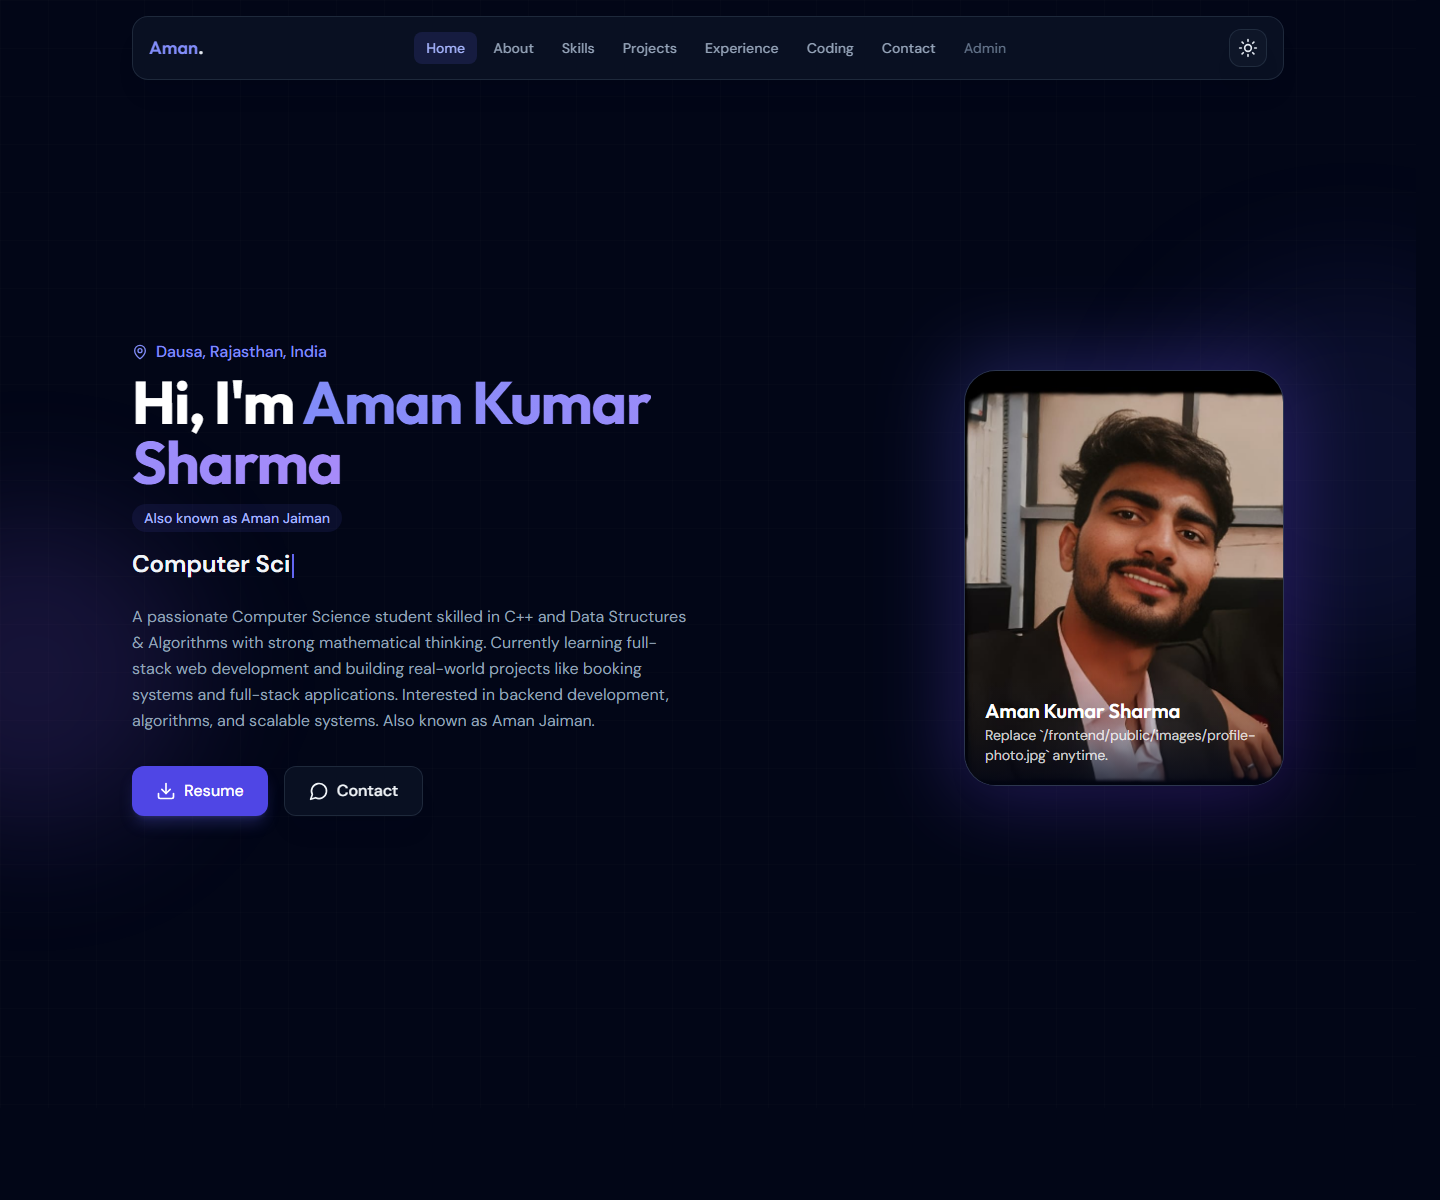
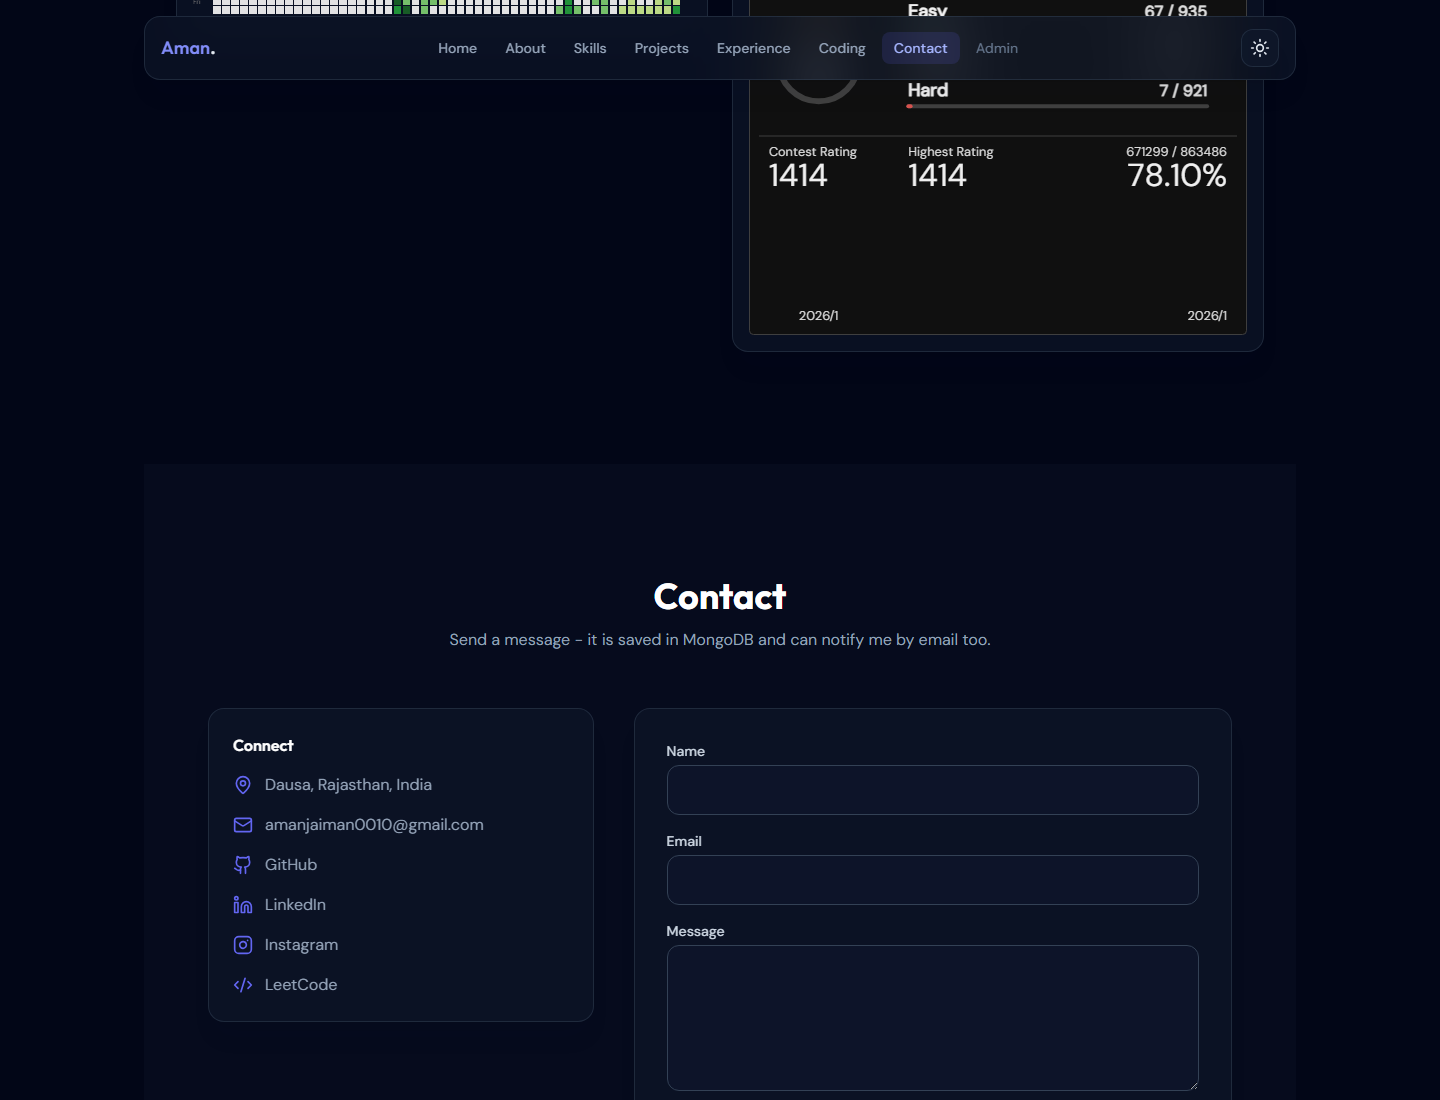
Update profile photo and README screenshots

diff --git a/frontend/src/components/HeroSection.jsx b/frontend/src/components/HeroSection.jsx
@@ -77,7 +77,7 @@ export function HeroSection() {
               />
               <div className="absolute inset-x-0 bottom-0 bg-gradient-to-t from-slate-950/75 via-slate-950/20 to-transparent p-5">
                 <p className="text-white font-display text-xl font-semibold">{profile.name}</p>
-                <p className="text-white/80 text-sm">Replace `/frontend/public/images/profile-photo.jpg` anytime.</p>
+                <p className="text-white/80 text-sm">Replace `/frontend/public/images/aman-kumar-sharma.jpg` anytime.</p>
               </div>
             </div>
           </div>

diff --git a/frontend/src/data/profile.js b/frontend/src/data/profile.js
@@ -13,7 +13,7 @@ export const profile = {
   leetcode: "https://leetcode.com/u/Aman_Jaiman__/",
   leetcodeUsername: "Aman_Jaiman__",
   resumePath: "/resume.pdf",
-  profileImage: "/images/profile-photo.jpg",
+  profileImage: "/images/aman-kumar-sharma.jpg?v=20250406",
   profileImageFallback: "/favicon.svg",
   typingPhrases: ["C++ Developer", "Problem Solver", "Web Developer", "Computer Science Student"],
   summary:

diff --git a/README.md b/README.md
@@ -7,8 +7,8 @@ Full-stack personal portfolio for **Aman Kumar Sharma** (also known as **Aman Ja
 ### Home
 ![Home screenshot](./docs/screenshots/home.png)
 
-### Coding Profiles
-![Coding section screenshot](./docs/screenshots/coding.png)
+### Projects
+![Projects section screenshot](./docs/screenshots/projects.png)
 
 ### Contact
 ![Contact section screenshot](./docs/screenshots/contact.png)
@@ -16,7 +16,7 @@ Full-stack personal portfolio for **Aman Kumar Sharma** (also known as **Aman Ja
 ## Highlights
 
 - Responsive personal portfolio with hero, about, skills, projects, experience, coding profiles, and contact sections.
-- Replaceable profile photo stored at `frontend/public/images/profile-photo.jpg`.
+- Replaceable profile photo stored at `frontend/public/images/aman-kumar-sharma.jpg`.
 - Automatic fallback to `frontend/public/favicon.svg` if the profile photo is missing or fails to load.
 - Resume download support from `frontend/public/resume.pdf`.
 - GitHub stats, contribution graph, and live LeetCode progress card.
@@ -82,7 +82,7 @@ Frontend `.env` values:
 
 ## Customization
 
-- Replace the profile image by updating `frontend/public/images/profile-photo.jpg`.
+- Replace the profile image by updating `frontend/public/images/aman-kumar-sharma.jpg`.
 - Keep `frontend/public/favicon.svg` in place for the default avatar fallback.
 - Replace `frontend/public/resume.pdf` with the latest resume file when needed.
 - Update personal links in `frontend/src/data/profile.js`.
